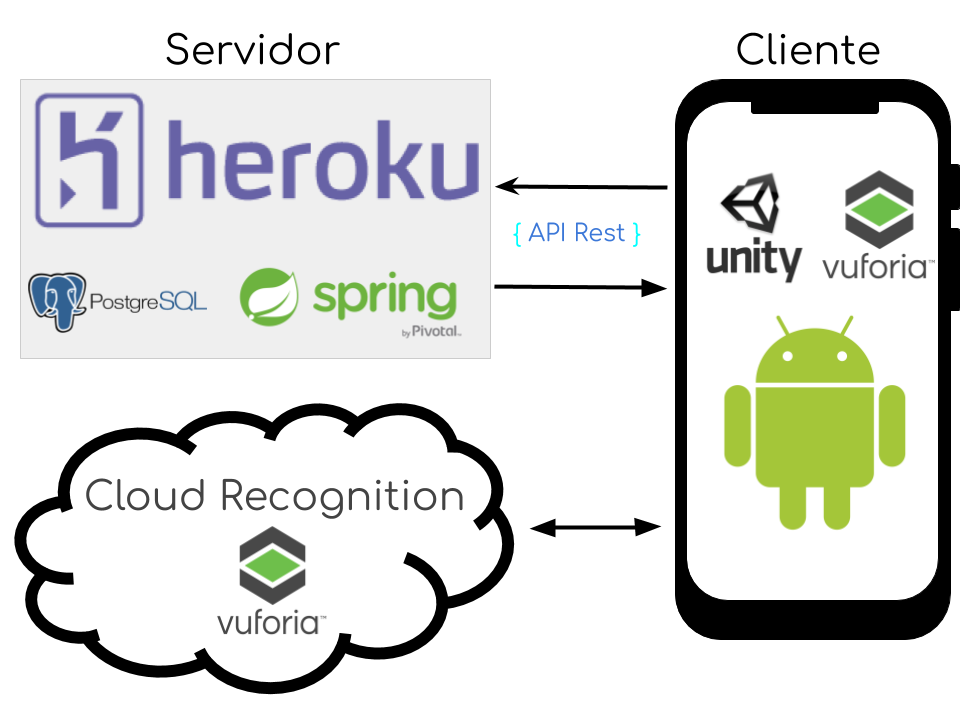
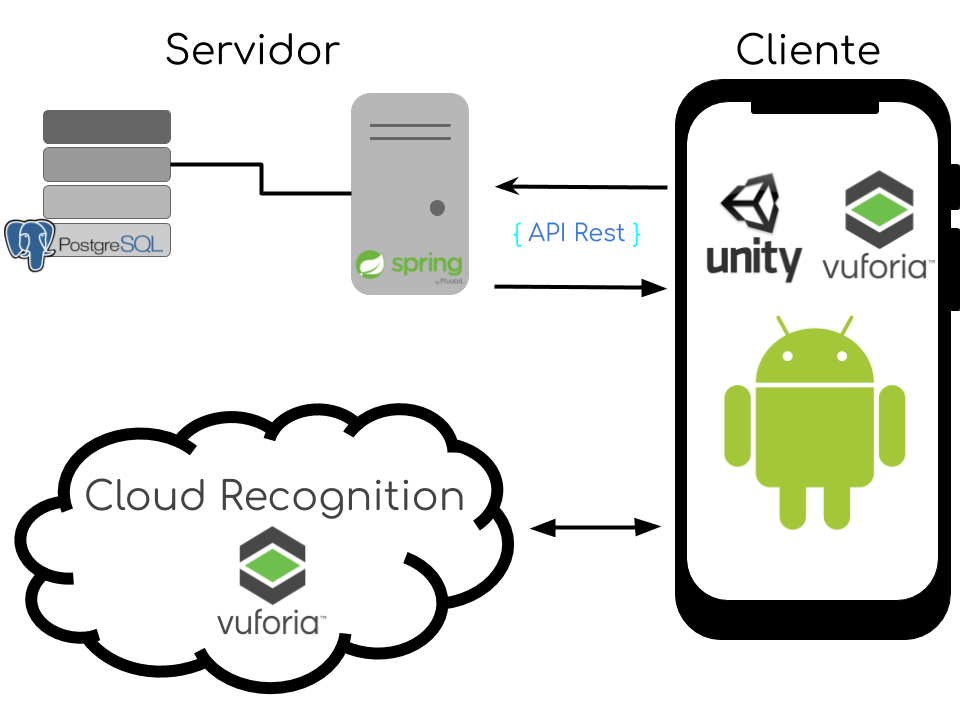
Revisión parcial del cap 4

Changed region(s): [[0.0, 0.1222, 0.5, 0.4889]]

diff --git a/chapter4.tex b/chapter4.tex
@@ -12,14 +12,28 @@
 \chapter{Implementación}
 \label{makereference4}
 Nuestra aplicación es una aplicación móvil desarrollada en Android, Unity y Vuforia y con un servidor desarrollado en Java usando Spring.
-En este capítulo comenzaremos mostrando todos los prototipos de implementación que hemos desarrollado, en los cuáles veremos los pros y contras de las
+En este capítulo comenzaremos describiendo todos los prototipos de implementación que hemos desarrollado, en los cuáles veremos los pros y contras de las
 tecnologías que hemos probado y el porqué de nuestra elección de implementar la aplicación con estas tecnologías. 
 Después describiremos cómo hemos implementado nuestra aplicación, desde la arquitectura que hemos seguido, 
 las tecnologías usadas para la parte frontend y la parte backend junto a las dificultades 
 que nos hemos encontrado mientras trabajábamos. Finalmente hablaremos de las herramientas de trabajo
 utilizadas para facilitarnos el trabajo en equipo.
-\section{Prototipos}
+\begin{center}
+    \begin{tabularx}{1\textwidth}{@{\extracolsep{\fill}} | X | l | l |} \hline
+    \multicolumn{3}{|l|}{Enlaces de GitHub } \\ \hline
+    Aplicación & Licencia & Enlace \\ \hline
+    Escena de AR en Unity con Vuforia & Apache-2.0 & \url{https://github.com/DanielCalle/TFG-Vuforia} \\ \hline
+    Aplicación de Android & Apache-2.0 & \url{https://github.com/DanielCalle/TFG-Android} \\ \hline
+    Servidor de Spring & Apache-2.0 & \url{https://github.com/DanielCalle/TFG-Server} \\ \hline
+    \end{tabularx}
+\end{center}
+\section{Pruebas de arquitectura}
 \label{makereference4.1}
+Estas pruebas sirven para conocer si las tecnologías seleccionadas
+de la \autoref{makereference2.1.1} son viables dentro de nuestro proyecto.
+Desarrollaremos prototipos con funcionalidades básicas y evaluaremos las partes
+positivas y negativas de dichas tecnologías. Esto nos permitirá decidir cuales
+son las mejores opciones para construir el software.
 
 \subsection{ARCore} 
 \label{makereference4.1.1} 
@@ -106,8 +120,8 @@ Las características tecnológicas de este prototipo son las siguientes:
 
 \begin{enumerate}
     \item La librería de Vuforia para Android está diseñada a muy bajo nivel.
-    \item Vuforia para dibujar en 3D usa la librería OpenGL, ver Figura \ref{fig:modelo3D}.
-    \item OpenGL utiliza una serie de espacios donde se van colocando los elementos, ver Figura \ref{fig:esquemaOpenGl}: 
+    \item Vuforia para dibujar en 3D usa la librería OpenGL (ver Figura \ref{fig:modelo3D}).
+    \item OpenGL utiliza una serie de espacios donde se van colocando los elementos (ver Figura \ref{fig:esquemaOpenGl}): 
     \begin{enumerate}
         \item Local space: Es el espacio local de cada objeto.
         \item World space: Es el mundo donde se encuentran los objetos.
@@ -216,17 +230,10 @@ Tras realizar este prototipo, consideramos que estas herramientas podrían ser l
 \subsection{Server en Spring} 
 \label{makereference4.1.6}
 
-Para la realización de la parte backend de la aplicación decidimos
-incorporar la tecnología de Spring para codificar un servicio web REST en Java
+Para la realización de la parte backend de la aplicación explicada a continuación,
+decidimos incorporar la tecnología de Spring para codificar un servicio web REST en Java
 y el acceso a datos mediante MySQL. Para el prototipo seguimos un tutorial\cite{tutorialspring} de 3 partes para crear un servicio web REST
-que gestionara una simple entidad de contactos de personas, con atributos como el nombre completo del contacto, su número de teléfono o su correo electrónico. Se puede observar su estructura
-en la figura \ref{fig:entidadContactos}.
-    \begin{figure}[H]
-        \centering
-        \includegraphics[width=6in]{figures/ContactsEntity.png}
-        \caption{Entidad de Contactos}
-        \label{fig:entidadContactos}
-    \end{figure}
+que gestionara una simple entidad de contactos de personas, con atributos como el nombre completo del contacto, su número de teléfono o su correo electrónico.
 
 También se investigaron distintas formas de realizar el acceso a la base de datos desde el servidor, nos decantamos por una clase que nos ofrecía implementados los métodos básicos para crear, leer, actualizar y borrar datos. Además de la opción 
 de poder crear nuestros propios métodos.
@@ -237,10 +244,8 @@ que gestionara entidades de películas, y que usara PostgreSQL.
 \section{Arquitectura}
 \label{makereference4.2}
 En cuanto a la arquitectura usada en nuestra aplicación hemos adjuntado un esquema que podemos observar en la Figura \ref{fig:arquitectura}. Nuestra aplicación móvil estará implementada tanto en Android
-como en Unity, la aplicación general está en Android, mientras que la parte de realidad aumentada está desarrollada en Unity y usa Vuforia. Para el reconocimiento
-de imágenes con Vuforia usamos un almacenamiento en la nube gratuito que nos ofrece para almacenar las imágenes ya que, tener todas las imágenes en la misma aplicación la cargaría de un peso innecesario. Vuforia es una herramienta de pago, sin embargo, 
-ofrece una licencia gratuita para desarrolladores que pretendan aprender la tecnología sin lucrarse de ella\cite{vuforia_prices}. Tiene limitaciones como el número de accesos al mes o el número de imágenes que se pueden guardar, pero para el uso que pretendemos 
-darle es suficiente \cite{vuforia_free}. 
+como en Unity. La aplicación general está en Android, mientras que la parte de realidad aumentada está desarrollada en Unity y usa Vuforia. Para el reconocimiento
+de imágenes con Vuforia usamos un almacenamiento en la nube gratuito.
 Para la parte del servidor, hemos realizado una API Rest con Spring, usando además una base de datos relacional en PostgreSQL. La comunicación entre cliente y servidor se realiza mediante peticiones HTTP a 
 nuestro servidor desplegado en Heroku el cual nos devolverá los datos en formato JSON y posteriormente los mapearemos a una clase Java.
 \begin{figure}[H]
@@ -251,20 +256,31 @@ nuestro servidor desplegado en Heroku el cual nos devolverá los datos en format
 \end{figure}
 \section{Servidor}
 \label{makereference4.3}
-Nuestro servidor está programado en Java, usando el framework Spring para la creación de una API Rest que mediante peticiones HTTP y una base de datos relacional en PostgreSQL nos proporcionará
-toda la información necesaria para alimentar de datos a nuestro cliente. El servidor necesita ser desplegado para que la aplicación pueda tener un uso real por lo que conseguimos desplegarlo de forma gratuita en Heroku, que además ofrece
-facilidades para desplegar un servidor creado mediante Spring, por lo que nos facilitó el trabajo considerablemente. También se encuentra en el servidor la implementación del sistema de recomendación.
+Nuestro servidor está programado en Java, usando el framework Spring para la creación de una API Rest que, mediante peticiones HTTP y una base de datos relacional en PostgreSQL, nos proporcionará
+toda la información necesaria para alimentar de datos a nuestro cliente. También se encuentra en el servidor la implementación del sistema de recomendación.
+\subsection{Entidades}
+\label{makereference4.3.1}
 En el servidor tendremos todas las entidades que necesitamos representadas mediante clases Java y anotaciones de JPA, para facilitar el mapeo entre tablas de la base de datos y dichas entidades. Hemos implementado las siguientes entidades:
+\begin{figure}[H]
+    \centering
+    \includegraphics[width=6in]{figures/chapter-4/Entidades-ER.jpeg}
+    \caption{Modelo entidad-relación}
+    \label{fig:arquitectura}
+\end{figure}
 \begin{itemize}
     \item Film: entidad referente a las películas que guardamos, con su respectivo título, director, duración, valoración, url del tráiler, sinopsis, url de la imagen de la película, género, país y fecha de estreno.
     \item User: entidad para representar a los usuarios de la aplicación, con su nombre, foto, email y contraseña.
     \item Friendship: entidad para representar la relación de amistad entre usuarios.
-    \item Plan: entidad para representar los planes, estos poseerán una película, un usuario creador, fecha, hora, lugar, título, descripción y una lista de usuarios unidos.
+    \item Plan: entidad para representar los planes. Estos poseerán una película, un usuario creador, fecha, hora, lugar, título, descripción y una lista de usuarios unidos.
     \item UserFilm: entidad intermedia para representar la relación de usuarios con películas, es decir, las películas que son guardadas por cierto usuario.
-    \item Recommendation: entidad para representar las recomendaciones a los usuarios.
 \end{itemize}
+\subsection{Controladores}
+\label{makereference4.3.2}
 Para cada una de estas entidades necesitamos una clase Controller, que actuará de controlador para saber redirigir cada petición HTTP a su correspondiente servicio de aplicación, donde se aplicará la lógica del negocio, comprobando 
 que los datos son correctos y obteniendo, modificando o creando elementos en la base de datos a través de las clases Repository correspondiente a cada entidad.
+A la búsqueda por ID tuvimos que añadir la búsqueda por UUID en usuarios y películas.
+El ID es necesario para utilizarlo en el sistema de recomendación de Mahout y
+el UUID es necesario para el reconocimiento de imágenes de Vuforia.
 Las distintas peticiones HTTP que realizamos son las siguientes:
 
 \begin{center}
@@ -301,11 +317,11 @@ Las distintas peticiones HTTP que realizamos son las siguientes:
 \begin{center}
     \begin{tabularx}{1\textwidth}{@{\extracolsep{\fill}} | l | l | X |} \hline
     \multicolumn{3}{|c|}{UserFilm} \\ \hline
-    Obtener todas puntuaciones & GET & /user-films/ \\ \hline
-    Guardar puntuación & POST & /user-films/ \\ \hline
-    Actualizar puntuación & PUT & /user-films/\{userId\}/\{filmId\}/rate/\{rating\} \\ \hline
-    Buscar una puntuación & GET & /user-films/\{userId\}/\{filmId\} \\ \hline
-    Borrar una puntuación & GET & /user-films/\{id\} \\ \hline
+    Obtener todas las valoraciones & GET & /user-films/ \\ \hline
+    Guardar valoración & POST & /user-films/ \\ \hline
+    Actualizar valoración & PUT & /user-films/\{userId\}/\{filmId\}/rate/\{rating\} \\ \hline
+    Buscar una valoración & GET & /user-films/\{userId\}/\{filmId\} \\ \hline
+    Borrar una valoración & GET & /user-films/\{id\} \\ \hline
     \end{tabularx}
 \end{center}
 \begin{center}
@@ -354,12 +370,10 @@ Las distintas peticiones HTTP que realizamos son las siguientes:
 \section{Cliente}
 \label{makereference4.4}
 Nuestra aplicación está implementada principalmente en Android, las interfaces principales para el uso de los planes, recomendaciones y acceso a la información de las películas guardadas han sido desarrolladas mediante Android Studio. Sin embargo,
-la parte del cliente que otorga el gran valor a nuestra aplicación está desarrollada en Unity y el uso de Vuforia, todas las escenas que aparecen al reconocer carteles de películas e imágenes de usuarios fueron implementadas de esta forma. Vuforia además nos ofrece un
-servicio de Cloud para el almacenamiento de imágenes, a las cuales les asocia una valoración según lo fácil que le resultará a la aplicación reconocerla y un identificador único (UUID), que es el que usaremos para guardar la distinta información de dicha película o usuario en la base de datos.
+la parte del cliente que otorga el gran valor a nuestra aplicación está desarrollada en Unity y el uso de Vuforia, todas las escenas que aparecen al reconocer carteles de películas e imágenes de usuarios fueron implementadas de esta forma.
 La parte de la aplicación realizada en Unity, utiliza una serie de clases de la parte desarrollada en Android para realizar las peticiones al servidor y así poder mostrar información específica cuando se reconoce una cierta imagen.
-Al principio hicimos que las dos partes realizaran las peticiones en sus respectivos lenguajes, pero decidimos que sería mejor que el acceso a la capa de datos se realizara por el mismo sitio y así conseguir que las distintas capas estuvieran separadas.
-Además, en un principio, las imágenes que mostramos en la parte de Android se almacenan en Google Drive y mediante la librería de Picasso las obtenemos en tiempo de ejecución, esto se ha implementado de esta forma por la misma razón por la que tenemos las imágenes a reconocer en un Cloud.
-Finalmente, debido al coste en tiempo de esta operación y tras debatirlo con nuestros directores del Trabajo de Fin de Grado, hemos decidido guardar dichas imágenes en el mismo servidor para su rápida obtención.
+Al principio la parte de Android implementaba la obtención de datos del servidor que necesitaba y la parte de Unity la suya. Después decidimos implementar la obtención de datos únicamente en Android y hacer usarlo desde Unity para tener mejor control y no duplicar soluciones al mismo problema.
+Las imágenes que mostramos en la parte de Android se almacenan en el mismo servidor.
 
 
 Como la mayor parte de la aplicación está implementada en Android Studio, la estructura de ésta se adapta a lo que ofrece el IDE, consistiendo en el flujo de unas actividades y fragmentos que explicaremos a continuación.
@@ -368,16 +382,22 @@ Como la mayor parte de la aplicación está implementada en Android Studio, la e
 \subsection{Actividades}
 \label{makereference4.4.1}
 Son los componentes de la aplicación que representan una pantalla con la que los usuarios pueden interactuar para realizar una determinada acción.
+\begin{figure}[H]
+    \centering
+    \includegraphics[width=6in]{figures/chapter-4/Activity.jpeg}
+    \caption{Actividades}
+    \label{fig:activity}
+\end{figure}
 
 \begin{figure}[H]
     \centering
-    \includegraphics[width=3in]{figures/chapter-4/activity_lifecycle.png}
+    \includegraphics[width=5in]{figures/chapter-4/activity_lifecycle.png}
     \caption{Ciclo de vida de una actividad}
 \end{figure}
 
 Entre nuestras actividades podemos destacar dos: 
 \begin{itemize}
-    \item MainActivity: La primera actividad (actividad principal) que se activa al iniciar la aplicación, la cual comprueba el estado de sesión del usuario, si está logueado se queda en la actividad, y si no, se redirige al usuario a otra actividad llamada LoginActivity que mediante un formulario muy simple nos permite iniciar sesión o registrarnos. En MainActivity se encuentra un paginador (ViewPager) de 3 fragmentos, donde cada fragmento representa las interfaces de planes, recomendaciones y películas guardadas correspondientemente, podemos observarlo en las Figuras \ref{fig:listaPlanes}, \ref{fig:lista_peliculas} y \ref{fig:recomendaciones_1} del \autoref{makereference3}.
+    \item MainActivity: La primera actividad (actividad principal) que se activa al iniciar la aplicación, la cual comprueba el estado de sesión del usuario, si está logueado se queda en la actividad, y si no, se redirige al usuario a otra actividad llamada LoginActivity que mediante un formulario muy simple nos permite iniciar sesión o registrarnos. En MainActivity se encuentra un paginador (ViewPager) de 3 fragmentos, donde cada fragmento representa las interfaces de planes, recomendaciones y películas guardadas correspondientemente. Podemos observarlo en las Figuras \ref{fig:listaPlanes}, \ref{fig:lista_peliculas} y \ref{fig:recomendaciones_1} del \autoref{makereference3}.
     \item UnityPlayerActivity: Se trata de una actividad especial que nos permite comunicar la parte desarrollada en Unity con nuestro proyecto Android. Aquí se encuentran llamadas a funciones desde la parte de Unity, se realizan las órdenes y se devuelven a Unity.
 \end{itemize} 
 
@@ -404,7 +424,7 @@ Lo que nos permite es abstraer la lógica de los métodos implementados en Andro
 
 \subsection{Entidades}
 \label{makereference4.4.4}
-Todos los modelos de datos que podemos recibir del servidor, los cuales hemos descrito anteriormente en este capítulo, en la sección 4.3 describiendo el servidor, son representados por entidades en nuestro proyecto de Android, con los mismos atributos que tienen sus entidades correspondientes en el servidor.
+Todos los modelos de datos que podemos recibir del servidor, los cuales hemos descrito anteriormente en este capítulo, en la Sección 4.3, son representados por entidades en nuestro proyecto de Android, con los mismos atributos que tienen sus entidades correspondientes en el servidor.
 
 \subsection{Fragmentos}
 \label{makereference4.4.5}
@@ -412,17 +432,23 @@ Representan un comportamiento o una parte de la interfaz de usuario en una activ
 Se utilizan para formar una vista compuesta de paginación en una actividad. 
 Aquí es donde tendremos los 3 componentes principales de nuestra aplicación, la actividad referente a mis planes, la actividad de las recomendaciones y la de mis películas.
 
-\subsection{Servicios}
+\subsection{Petición de servicios}
 \label{makereference4.4.6}
 Se trata de un conjunto de clases que solo poseen métodos estáticos para llevar a cabo peticiones HTTP al servidor. Se ha creado una clase genérica para la creación y llamada de peticiones HTTP, se ha diseñado de manera que las respuestas se devuelvan en forma de callback para un uso más sencillo.
+\begin{figure}[H]
+    \centering
+    \includegraphics[width=6in]{figures/chapter-4/Request.jpeg}
+    \caption{Petición de servicios}
+    \label{fig:activity}
+\end{figure}
 Los servicios que hemos implementado son los siguientes:
 \begin{itemize}
-    \item FilmService: servicio encargado de realizar las peticiones sobre películas al servidor, como podría ser buscar una película por su ID.
-    \item FriendshipService: servicio responsable de obtener los datos relacionados a las relaciones entre amistad, como podría ser aceptar una petición o comprobar si dos usuarios son amigos.
-    \item PlanService: servicio cuya finalidad es la de conseguir la información relacionada con los planes, como podría ser la operación de crear un plan y unirse o salirse de uno ya existente.
-    \item RecommendationService: este servicio se ocupa de obtener las distintas recomendaciones de películas y planes de un usuario.
-    \item UserFilmService: servicio creado para obtener la información referente a ciertos métodos de la relación entre películas y usuarios. Por ejemplo, con este servicio podríamos guardar una película como favorita de un usuario. También es usado para cuando un usuario valora cierta película.
-    \item UserService: servicio que nos permite obtener todo lo relacionado con los usuarios, ya sean sus perfiles, los amigos de un usuario, los planes en los que está o las películas que ha guardado.
+    \item FilmRequest: servicio encargado de realizar las peticiones sobre películas al servidor, como podría ser buscar una película por su ID.
+    \item FriendshipRequest: servicio responsable de obtener los datos relacionados a las relaciones entre amistad, como podría ser aceptar una petición o comprobar si dos usuarios son amigos.
+    \item PlanRequest: servicio cuya finalidad es la de conseguir la información relacionada con los planes, como podría ser la operación de crear un plan y unirse o salirse de uno ya existente.
+    \item RecommendationRequest: este servicio se ocupa de obtener las distintas recomendaciones de películas y planes de un usuario.
+    \item UserFilmRequest: servicio creado para obtener la información referente a ciertos métodos de la relación entre películas y usuarios. Por ejemplo, con este servicio podríamos guardar una película como favorita de un usuario. También es usado para cuando un usuario valora cierta película.
+    \item UserRequest: servicio que nos permite obtener todo lo relacionado con los usuarios, ya sean sus perfiles, los amigos de un usuario, los planes en los que está o las películas que ha guardado.
 \end{itemize}
 
 \subsection{Vistas}
@@ -442,6 +468,16 @@ Finalmente decidimos usar para la aplicación el sistema de Filtrado Colaborativ
     \item Hemos conseguido un archivo csv de unas 200000 valoraciones de usuarios a películas con sus respectivos títulos, por lo que sólo tendríamos que crear usuarios ficticios para conseguir una base de datos inicial.
     \item Para usar el filtrado basado en el contenido tenemos que diseñar muy bien los datos de cada una de las entidades, además de aplicar los pesos de importancia a los atributos para en un futuro aplicar el sistema.  
 \end{itemize} 
+
+Para la implementación del sistema de recomendación, utilzamos un procedimiento
+que se ejecuta automáticamente por cada periodo de tiempo. En este procedimiento,
+se usa una funcionalidad de la librería Mahout, para extraer los datos de recomendación
+de nuestra base de datos. Transformándolo en un modelo de datos que, posteriormente tras
+ejecutar mediante algunos parámetros aplicados a la técnica de filtrado colaborativo, obtener 
+resultados de recomendación. Con estos resultados, se almacenan en una tabla de base de datos 
+para después poder hacer consultas.
+
+
 Para la implementación de los sistemas de recomendación hemos encontrados tres librerías:
 \begin{enumerate}
     \item Mahout: Se trata de una librería que abarca la mayoría de necesidades para la implementación del sistema de recomendación.
@@ -453,7 +489,7 @@ Al final nos hemos decantado por Mahout, ya que aporta una documentación más c
 sin tener que leer desde ficheros csv. Por otro lado, en el testeo de 
 Lenskit, cuando intentábamos reproducir el ejemplo que ofrecían, nos encontramos que algunas funciones estaban 
 obsoletas y, por tanto, no nos transmitía mucha confianza. Por último, Mahout destaca por ser más fácil de usar y minimizar nuestro esfuerzo en aprender esta nueva tecnología.
-\section{Despliegue}. 
+\section{Despliegue}
 \label{makereference4.6}
 Para el despliegue de la aplicación de servidor utilizamos Heroku.
 Esta plataforma nos ofrece una versión gratis de alojamiento limitado con las
@@ -461,26 +497,8 @@ Esta plataforma nos ofrece una versión gratis de alojamiento limitado con las
 Utilizamos un despliegue automático que al realizar cambios en una rama del
  repositorio de GitHub, Heroku descarga esos cambios y lo despliega en el servidor.
 
-
-\section{Dificultades encontradas}
-\label{makereference4.7}
-A continuación, mostraremos una lista de todas las dificultades encontradas a la hora de implementar nuestra aplicación:
-\begin{itemize}
-    \item Diseño de las interfaces para que fueran familiares e intuitivas para el usuario. Tuvimos que rehacer muchas veces los distintos bocetos de las interfaces ya que no eran intuitivos para los usuarios, gracias a las sugerencias que se nos iban haciendo conseguimos mejorarlas bastante.
-    \item Desconocimiento del entorno de desarrollo y peculiaridades del desarrollo de aplicaciones en Android. Para resolver nuestro desconocimiento de Android realizamos una serie de prototipos y buscamos tutoriales que nos sirvieran como ejemplo para desarrollar cada parte de nuestra aplicación.
-    \item Incompatibilidad de realización de peticiones HTTP en ciertas versiones de Android. Tras probar la aplicación en un smartphone con versión de Android 9.0 descubrimos que los permisos para hacer peticiones de este tipo a un servidor no funcionaban con la configuración inicial de nuestro proyecto. Para solucionarlo cambiamos una serie de líneas de código en nuestro archivo AndroidManifest.xml para solventarlo.
-    \item Problemas a la hora de intentar desplegar el servidor de forma correcta para que fuera accesible siempre. Para que el servidor estuviera siempre levantado se nos ocurrió realizar su despliegue en Heroku para así poder realizar peticiones en cualquier momento desde la app.
-    \item Poca familiaridad con el uso de Unity y el lenguaje C\# para realizar la parte de realidad aumentada. Para familiarizarnos con el entorno implementamos una serie de prototipos y buscamos tutoriales que nos sirvieran como guía para diseñar nuestra parte de realidad aumentada. 
-    \item Caducidad de las licencias gratuitas para el uso del Cloud de Vuforia. La solución a este problema fue muy simple, crearnos cuentas nuevas cada vez que se acabara la licencia para poder seguir accediendo a este servicio.
-    \item Primera vez usando el framework de Spring para la realización de una API Rest. Su solución fue seguir un tutorial paso a paso para crearlo con una sola entidad e ir ampliándolo a todas las entidades que necesitaba nuestra aplicación.
-    \item Comunicación entre la parte cliente en Android y el servidor. Conseguimos realizar servicios en Android que realizaban las peticiones al servidor de forma asíncrona, obteniendo su resultado en una función callback para usar dicha información como correspondiera en cada caso.
-    \item Comunicación entre la parte cliente en Unity con la parte cliente en Android. Para abstraer la lógica desarrollada en Android a la de Unity implementamos clases que usaban el patrón Command para facilitar la comunicación entre estas dos partes de nuestro proyecto.
-    \item Rendimiento en cuanto al reconocimiento de ciertas imágenes, sobre todo de personas, debido a la calidad de las mismas. El Cloud de Vuforia no las reconoce tan fácilmente como las de carteles de películas. Para arreglarlo tuvimos que buscar imágenes de usuarios con una mejor calidad para facilitar a la librería su reconocimiento, finalmente optamos por poner imágenes de los integrantes del proyecto durante el desarrollo de la aplicación.
-    \item Almacenamiento de imágenes en Google Drive y su obtención desde Android y Unity, junto con el retardo que esto produce. Para no tener las imágenes de los usuarios en la aplicación se nos ocurrió guardarlas en Google Drive y obtenerlas con la librería de Picasso de Android, pero esto era muy lento y decidimos guardarlas en el mismo servidor.
-    \item Incompatibilidades con las nuevas actualizaciones de Unity. Hemos tenido cuidado con no actualizar el IDE de Unity porque nuestro proyecto quedaría obsoleto, ya nos vimos en la situación de que uno de los miembros tenía una versión superior a la de los demás y tuvimos que rehacer lo que habíamos implementado.
-\end{itemize}
 \section{Herramientas de trabajo}
-\label{makereference4.8}
+\label{makereference4.7}
 Las distintas herramientas de trabajo que hemos decidido usar para que el trabajo realizado fuera más eficiente son las siguientes:
 \begin{itemize}
     \item Telegram: hemos usado esta aplicación de mensajería para poder comunicarnos entre todos los miembros pertenecientes al proyecto, ya fuera para la sugerencia de ideas o que un bot de GitHub nos avisara de los cambios en los distintos repositorios que hemos creado. 
@@ -495,4 +513,24 @@ Las distintas herramientas de trabajo que hemos decidido usar para que el trabaj
     \item Visual Studio: Utilizamos Visual Studio para codificar los scripts en C\# necesarios para el funcionamiento de la parte de realidad aumentada en Unity.
     \item Postman: aplicación para el envío de peticiones HTTP REST, que utilizamos para depurar los servicios de Spring.
     \item MockFlow: herramienta online para el diseño de mockups, nosotros la utilizamos para el diseño de las vistas de la aplicación Android.
+\end{itemize}
+
+\section{Conclusiones}
+\label{makereference4.8}
+\subsection{Dificultades encontradas}
+\label{makereference4.8.1}
+A continuación, mostraremos una lista de todas las dificultades encontradas a la hora de implementar nuestra aplicación:
+\begin{itemize}
+    \item Diseño de las interfaces para que fueran familiares e intuitivas para el usuario. Tuvimos que rehacer muchas veces los distintos bocetos de las interfaces ya que no eran intuitivos para los usuarios. Gracias a las sugerencias que se nos iban haciendo conseguimos mejorarlas bastante.
+    \item Desconocimiento del entorno de desarrollo y peculiaridades del desarrollo de aplicaciones en Android. Para resolver nuestro desconocimiento de Android realizamos una serie de prototipos y buscamos tutoriales que nos sirvieran como ejemplo para desarrollar cada parte de nuestra aplicación.
+    \item Incompatibilidad de realización de peticiones HTTP en ciertas versiones de Android. Tras probar la aplicación en un smartphone con versión de Android 9.0 descubrimos que los permisos para hacer peticiones de este tipo a un servidor no funcionaban con la configuración inicial de nuestro proyecto. Para solucionarlo cambiamos una serie de líneas de código en nuestro archivo AndroidManifest.xml para solventarlo.
+    \item Problemas a la hora de intentar desplegar el servidor de forma correcta para que fuera accesible siempre. Para que el servidor estuviera siempre levantado se nos ocurrió realizar su despliegue en Heroku para así poder realizar peticiones en cualquier momento desde la app.
+    \item Poca familiaridad con el uso de Unity y el lenguaje C\# para realizar la parte de realidad aumentada. Para familiarizarnos con el entorno implementamos una serie de prototipos y buscamos tutoriales que nos sirvieran como guía para diseñar nuestra parte de realidad aumentada. 
+    \item Caducidad de las licencias gratuitas para el uso del Cloud de Vuforia. La solución a este problema fue muy simple, crearnos cuentas nuevas cada vez que se acabara la licencia para poder seguir accediendo a este servicio.
+    \item Primera vez usando el framework de Spring para la realización de una API Rest. Su solución fue seguir un tutorial paso a paso para crearlo con una sola entidad e ir ampliándolo a todas las entidades que necesitaba nuestra aplicación.
+    \item Comunicación entre la parte cliente en Android y el servidor. Conseguimos realizar servicios en Android que realizaban las peticiones al servidor de forma asíncrona, obteniendo su resultado en una función callback para usar dicha información como correspondiera en cada caso.
+    \item Comunicación entre la parte cliente en Unity con la parte cliente en Android. Para abstraer la lógica desarrollada en Android a la de Unity implementamos clases que usaban el patrón Command para facilitar la comunicación entre estas dos partes de nuestro proyecto.
+    \item Rendimiento en cuanto al reconocimiento de ciertas imágenes, sobre todo de personas, debido a la calidad de las mismas. El Cloud de Vuforia no las reconoce tan fácilmente como las de carteles de películas. Para arreglarlo tuvimos que buscar imágenes de usuarios con una mejor calidad para facilitar a la librería su reconocimiento, finalmente optamos por poner imágenes de los integrantes del proyecto durante el desarrollo de la aplicación.
+    \item Almacenamiento de imágenes en Google Drive y su obtención desde Android y Unity, junto con el retardo que esto produce. Para no tener las imágenes de los usuarios en la aplicación se nos ocurrió guardarlas en Google Drive y obtenerlas con la librería de Picasso de Android, pero esto era muy lento y decidimos guardarlas en el mismo servidor.
+    \item Incompatibilidades con las nuevas actualizaciones de Unity. Hemos tenido cuidado con no actualizar el IDE de Unity porque nuestro proyecto quedaría obsoleto, ya nos vimos en la situación de que uno de los miembros tenía una versión superior a la de los demás y tuvimos que rehacer lo que habíamos implementado.
 \end{itemize}
